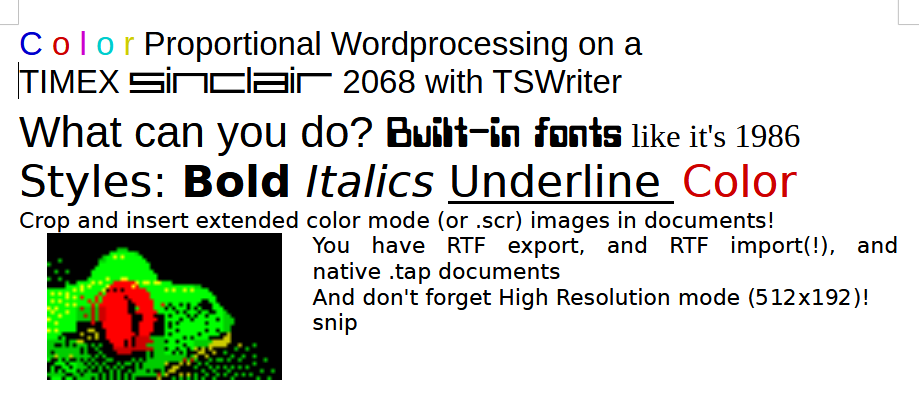
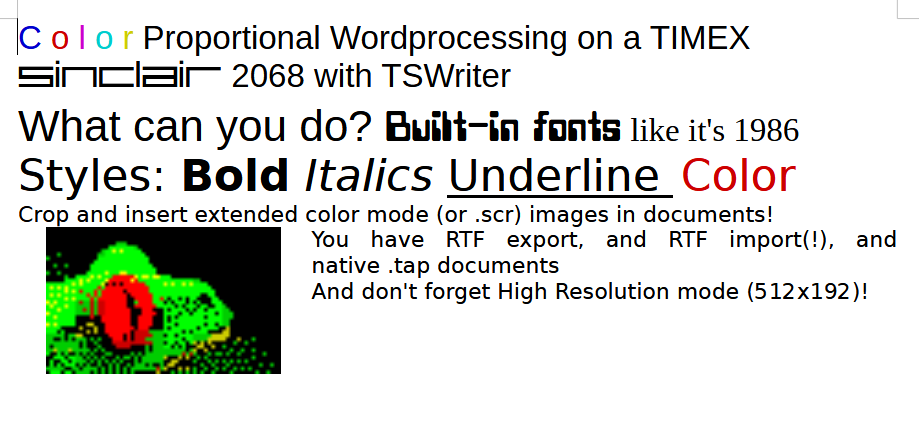
Refresh LibreOffice RTF export screenshot

diff --git a/docs/index.html b/docs/index.html
@@ -4,6 +4,6 @@
 <section id="tools"><p class="eyebrow">TAPE ↔ DESKTOP</p><h2>Move your words between worlds.</h2><p>These tools run in your browser. The files you select stay on your computer.</p><p><a href="#rtf-example">See a sample RTF export opened in LibreOffice →</a></p><div class="cards two"><article><h3>Extract an RTF export</h3><p>Choose File → Export RTF in TSWriter, finish the transfer, then use Fuse’s Tape → Write to save the export TAP. This tool verifies the recording and extracts the editable RTF.</p><a class="button" href="tools/rtf-extractor.html">TAP → RTF</a><p class="small">Use a fresh virtual tape for each export. Native document saves use the repository’s Python converter instead.</p></article><article><h3>Prepare an RTF import</h3><p>Choose a desktop RTF, review compatibility changes, and download an import TAP. Open it in Fuse, then use TSWriter’s File → Import RTF.</p><a class="button" href="tools/rtf-import.html">RTF → TAP</a><p class="small">A limited RTF subset, including TSWriter’s own indexed PNG pictures. Complex tables, footnotes and other picture encodings need simplification.</p></article></div></section>
 <section id="image-tools"><p class="eyebrow">PREPARE YOUR PICTURES</p><h2>Images for TSWriter.</h2><p>Timex Extended Color Mode (ECM) displays 256 × 192 pixels with 8×1-pixel color attribute resolution: each horizontal strip of eight pixels has its own ink and paper colors. Standard SCR screens use 8×8-pixel attribute blocks, so ECM allows finer color detail while keeping two colors within each strip.</p><div class="cards two"><article><h3>Retro Pixel Converter</h3><p>Convert desktop images into Timex ECM or standard SCR screen files. Choose Timex Extended Color for ECM, or a standard Spectrum/Timex mode for SCR, then prepare the supported .tap input for TSWriter’s Insert → Image from file command.</p><a href="https://factus10.github.io/retro-pixel-converter/">Open Retro Pixel Converter →</a></article><article><h3>ECMView</h3><p>A separate TS2068 viewer for Timex Extended Color Mode images, including images made with Retro Pixel Converter. Its download page also includes a TSPico viewer/slideshow option.</p><a href="https://www.timexsinclair.com/computer_media/ecmview/">Get ECMView →</a></article></div><p class="note">In TSWriter, load the screen image from a .tap file, crop it, and insert it into your document. See the <a href="menus.html#insert">image insertion and cropping guide</a>.</p></section>
 <section id="screenshots"><p class="eyebrow">ON THE SCREEN</p><h2>TSWriter in use.</h2><p>Color, fonts and pictures in ECM, and a full-width document in high resolution. Select an image to see it at full size.</p><div class="screenshot-grid"><figure class=""><a href="images/TSWriterScreenshot.png" aria-label="Open full-size image: TSWriter in ECM showing colored text, mixed fonts and a cropped picture with text beside it"><img src="images/TSWriterScreenshot.png" alt="TSWriter in ECM showing colored text, mixed fonts and a cropped picture with text beside it" width="781" height="558" loading="lazy" decoding="async"></a><figcaption>ECM color view: mixed typefaces, styles and an embedded picture.</figcaption></figure><figure class=""><a href="images/TSWriterHighres.png" aria-label="Open full-size image: TSWriter high-resolution view showing a page of proportional text"><img src="images/TSWriterHighres.png" alt="TSWriter high-resolution view showing a page of proportional text" width="764" height="574" loading="lazy" decoding="async"></a><figcaption>High-resolution view: a wide page of proportional text.</figcaption></figure></div><p><a href="menus.html">Explore the menus and their commands →</a></p></section>
-<section id="rtf-example"><p class="eyebrow">FROM TS2068 TO DESKTOP</p><h2>The RTF export in LibreOffice.</h2><p>This sample was exported from TSWriter and opened in LibreOffice with the matching desktop fonts installed. It shows mixed typefaces, bold, italic, underline, text colors and an embedded picture with text beside it.</p><div class="actions"><a class="button" href="downloads/introexport.rtf" download>Download sample RTF ↓</a><a href="https://github.com/jon0x0/TSWriter/releases/download/v2026.10.02/TSWriter-Desktop-Fonts-1.2.zip">Download matching desktop fonts →</a></div><p class="note">Install the desktop fonts and restart LibreOffice before opening introexport.rtf to reproduce the typefaces shown here. Desktop font metrics and line wrapping can differ from the TS2068 display.</p><figure><a href="images/LibreOffice-RTF-Export.png" aria-label="Open full-size LibreOffice RTF export screenshot"><img src="images/LibreOffice-RTF-Export.png" alt="TSWriter RTF output opened in LibreOffice with matching desktop fonts, colored and styled text, and a picture with text beside it" width="919" height="404" loading="lazy" decoding="async"></a><figcaption>LibreOffice after opening the TSWriter RTF export, with the matching desktop font package installed. Select the image to view it at full size.</figcaption></figure></section>
+<section id="rtf-example"><p class="eyebrow">FROM TS2068 TO DESKTOP</p><h2>The RTF export in LibreOffice.</h2><p>This sample was exported from TSWriter and opened in LibreOffice with the matching desktop fonts installed. It shows mixed typefaces, bold, italic, underline, text colors and an embedded picture with text beside it.</p><div class="actions"><a class="button" href="downloads/introexport.rtf" download>Download sample RTF ↓</a><a href="https://github.com/jon0x0/TSWriter/releases/download/v2026.10.02/TSWriter-Desktop-Fonts-1.2.zip">Download matching desktop fonts →</a></div><p class="note">Install the desktop fonts and restart LibreOffice before opening introexport.rtf to reproduce the typefaces shown here. Desktop font metrics and line wrapping can differ from the TS2068 display.</p><figure><a href="images/LibreOffice-RTF-Export.png?v=ce6f360fc6" aria-label="Open full-size LibreOffice RTF export screenshot"><img src="images/LibreOffice-RTF-Export.png?v=ce6f360fc6" alt="TSWriter RTF output opened in LibreOffice with matching desktop fonts, colored and styled text, and a picture with text beside it" width="919" height="448" loading="lazy" decoding="async"></a><figcaption>LibreOffice after opening the TSWriter RTF export, with the matching desktop font package installed. Select the image to view it at full size.</figcaption></figure></section>
 <section id="features"><p class="eyebrow">MADE FOR WRITING</p><h2>Small hardware. Useful tools.</h2><div class="cards features"><article><h3>Write and format</h3><p>Mix 16 font choices, bold, italic, underline and text colors. Align paragraphs left, center, right or justified.</p></article><article><h3>Two display modes</h3><p>512 × 192 high resolution and 256 × 192 Timex Extended Color Mode (ECM), with 8×1-pixel color attributes. Choose wide or narrow pages; pan across a wide ECM page.</p></article><article><h3>Edit and navigate</h3><p>Word wrapping, persistent selection, cut/copy/paste, Find, page movement and document start/end. Up to five undo states, space permitting.</p></article><article><h3>Pictures beside text</h3><p>Import standard SCR or ECM screen images from .tap files, crop in 8-pixel steps, and align pictures with text flowing beside left- or right-aligned images.</p></article><article><h3>Native documents and RTF</h3><p>Save and load native documents as .tap files. Export editable RTF with embedded pictures; import a supported RTF subset on the TS2068.</p></article><article><h3>Desktop font companions</h3><p>Outline fonts for LibreOffice on Windows, macOS or Linux. The separate Timex face intentionally preserves the original pixel-shaped appearance.</p></article></div><p class="note">Text, formatting, pictures and undo history share a 30 KB pool. Older undo states are discarded as space fills. Free bytes and cursor line update after about half a second of inactivity. Printer output is not implemented.</p></section>
 <section id="keyboard"><p class="eyebrow">KEEP YOUR HANDS ON THE KEYS</p><h2>The command reference.</h2><p>See the <a href="menus.html">complete menu guide</a> for explanations of every option, document transfer, formatting and image cropping.</p><p><strong>Both Shifts</strong> means <strong>Caps Shift + Symbol Shift</strong>. In Fuse, <kbd>Tab</kbd> holds both emulated Shift keys. These are the current cartridge commands.</p><div class="table-wrap" tabindex="0" role="region" aria-label="Keyboard commands"><table><thead><tr><th scope="col">Area</th><th scope="col">Keys</th><th scope="col">Action</th></tr></thead><tbody><tr><td>Typing</td><td>Letters / digits / Space</td><td>Insert text. Caps Shift + letter gives uppercase.</td></tr><tr><td>Typing</td><td>Enter; Caps Shift + 0</td><td>New paragraph; Backspace.</td></tr><tr><td>Typing</td><td>Symbol Shift + 1 / C / V / T / Z</td><td>Type ! / ? / slash / &gt; / colon. These are punctuation, not edit commands.</td></tr><tr><td>Typing</td><td>Symbol Shift + M / N / O / P</td><td>Type period / comma / semicolon / quotation mark.</td></tr><tr><td>Typing</td><td>Both Shifts, then release (Fuse: tap Tab)</td><td>Insert five spaces.</td></tr><tr><td>Movement</td><td>Caps Shift + 5 / 8 / 7 / 6</td><td>Left / right / up / down. Fuse arrow keys provide these chords.</td></tr><tr><td>Movement</td><td>Symbol Shift + Left / Right</td><td>Jump to document start / end. On hardware, use both Shifts + 5 / 8.</td></tr><tr><td>Movement</td><td>Symbol Shift + Up / Down</td><td>Page up / down (ten layout lines). On hardware, use both Shifts + 7 / 6.</td></tr><tr><td>Movement</td><td>Both Shifts + H / L</td><td>Pan wide ECM view left / right. Narrow pages do not pan.</td></tr><tr><td>Selection</td><td>Hold PC Shift first, then an arrow (Fuse)</td><td>Start selecting. Further arrows keep extending the selection after Shift is released.</td></tr><tr><td>Selection</td><td>Edit → Mark selection, then arrows</td><td>Start persistent selection using the menu; useful on a physical TS2068.</td></tr><tr><td>Selection</td><td>Caps Shift + Space; Edit → Clear selection</td><td>Clear the selection without deleting text. Applying a style also clears it.</td></tr><tr><td>Editing</td><td>Symbol Shift + X / Y</td><td>Cut / paste. Both Shifts + X / Y also work.</td></tr><tr><td>Editing</td><td>Both Shifts + C / Z</td><td>Copy / undo. Up to five undo states, space permitting.</td></tr><tr><td>Editing</td><td>Edit → Find</td><td>Search forward, ignoring case, with wraparound. Enter repeats the previous query; Caps Shift + Space cancels.</td></tr><tr><td>Menus</td><td>Symbol Shift + F / E / W / S / I</td><td>File / Edit / View / Style / Insert. Both Shifts also work.</td></tr><tr><td>Menus</td><td>Both Shifts + T / V</td><td>Type / View.</td></tr><tr><td>Menus</td><td>Arrows; Enter; Caps Shift + Space</td><td>Navigate; activate; dismiss. Help/About also provide Enter to continue or return.</td></tr><tr><td>Pointer</td><td>Hold both Shifts + Q / A / O / P</td><td>Move up / down / left / right. Fuse Tab holds both emulated Shifts.</td></tr><tr><td>Pointer</td><td>Hold both Shifts + Space</td><td>Click. Keep held and move with Q/A/O/P to drag a selection.</td></tr><tr><td>Cropping</td><td>Arrows; hold Shift first, then arrow</td><td>Move the crop rectangle by 8 pixels; resize the active corner.</td></tr><tr><td>Cropping</td><td>Both Shifts alone (Fuse: tap Tab)</td><td>Switch the active crop corner.</td></tr><tr><td>Cropping</td><td>Enter; C or Caps Shift + Space; H</td><td>Insert crop; cancel crop; show/hide crop instructions.</td></tr><tr><td>Tape</td><td>Enter; Space during transfer</td><td>Start loading/saving/exporting; abort an active tape transfer.</td></tr></tbody></table></div><p class="note">Selection stays active after Shift is released for Fuse compatibility. Use <kbd>Caps Shift + Space</kbd> to clear it. A physical TS2068 does not need a dedicated Escape key.</p></section></main><footer><a class="brand" href="#">TS<span>Writer</span></a><p>Uses GEOS and other fonts. Notices are included with the fonts.</p><a href="https://github.com/jon0x0/TSWriter/issues">Report an issue ↗</a></footer></body></html>
